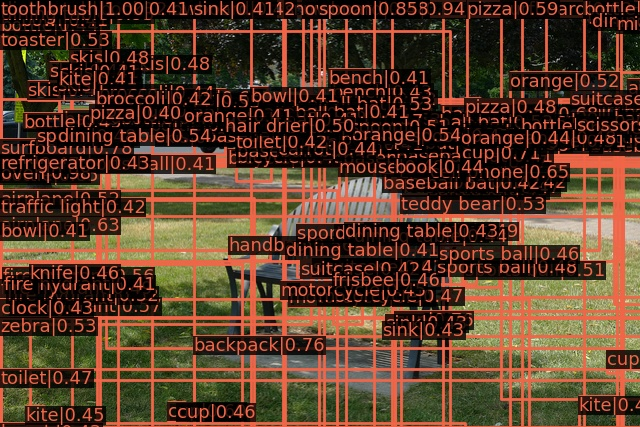
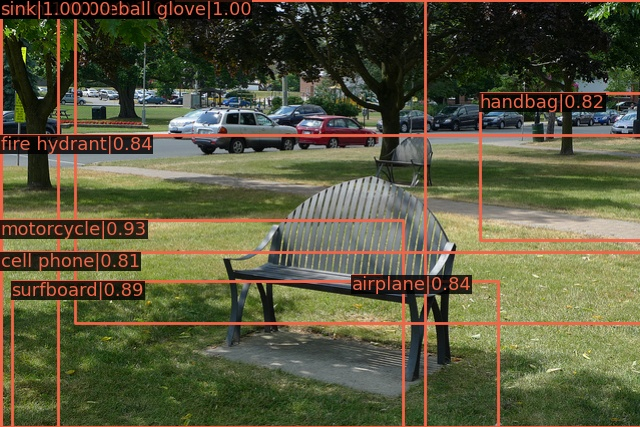
Add files via upload

diff --git a/install_check.py b/install_check.py
@@ -1,0 +1,24 @@
+from mmdet.apis import init_detector, inference_detector
+import mmcv
+
+config_file = './configs/edgeailite/ssd/ssd_regnet_fpn_bgr_lite.py'
+# 从 model zoo 下载 checkpoint 并放在 `checkpoints/` 文件下
+# 网址为: http://download.openmmlab.com/mmdetection/v2.0/faster_rcnn/faster_rcnn_r50_fpn_1x_coco/faster_rcnn_r50_fpn_1x_coco_20200130-047c8118.pth
+checkpoint_file = './checkpoints/ssd_regnetx-800mf_fpn_bgr_lite_512x512_20200919_checkpoint.pth'
+
+# 根据配置文件和 checkpoint 文件构建模型
+model = init_detector(config_file, checkpoint_file, device='cuda:0')
+
+# 测试单张图片并展示结果
+img = 'demo/demo.jpg'  # 或者 img = mmcv.imread(img)，这样图片仅会被读一次
+result = inference_detector(model, img)
+# 在一个新的窗口中将结果可视化
+model.show_result(img, result)
+# 或者将可视化结果保存为图片
+model.show_result(img, result, out_file='result.jpg')
+
+# 测试视频并展示结果
+video = mmcv.VideoReader('demo/demo.mp4')
+for frame in video:
+    result = inference_detector(model, frame)
+    model.show_result(frame, result, wait_time=1)
